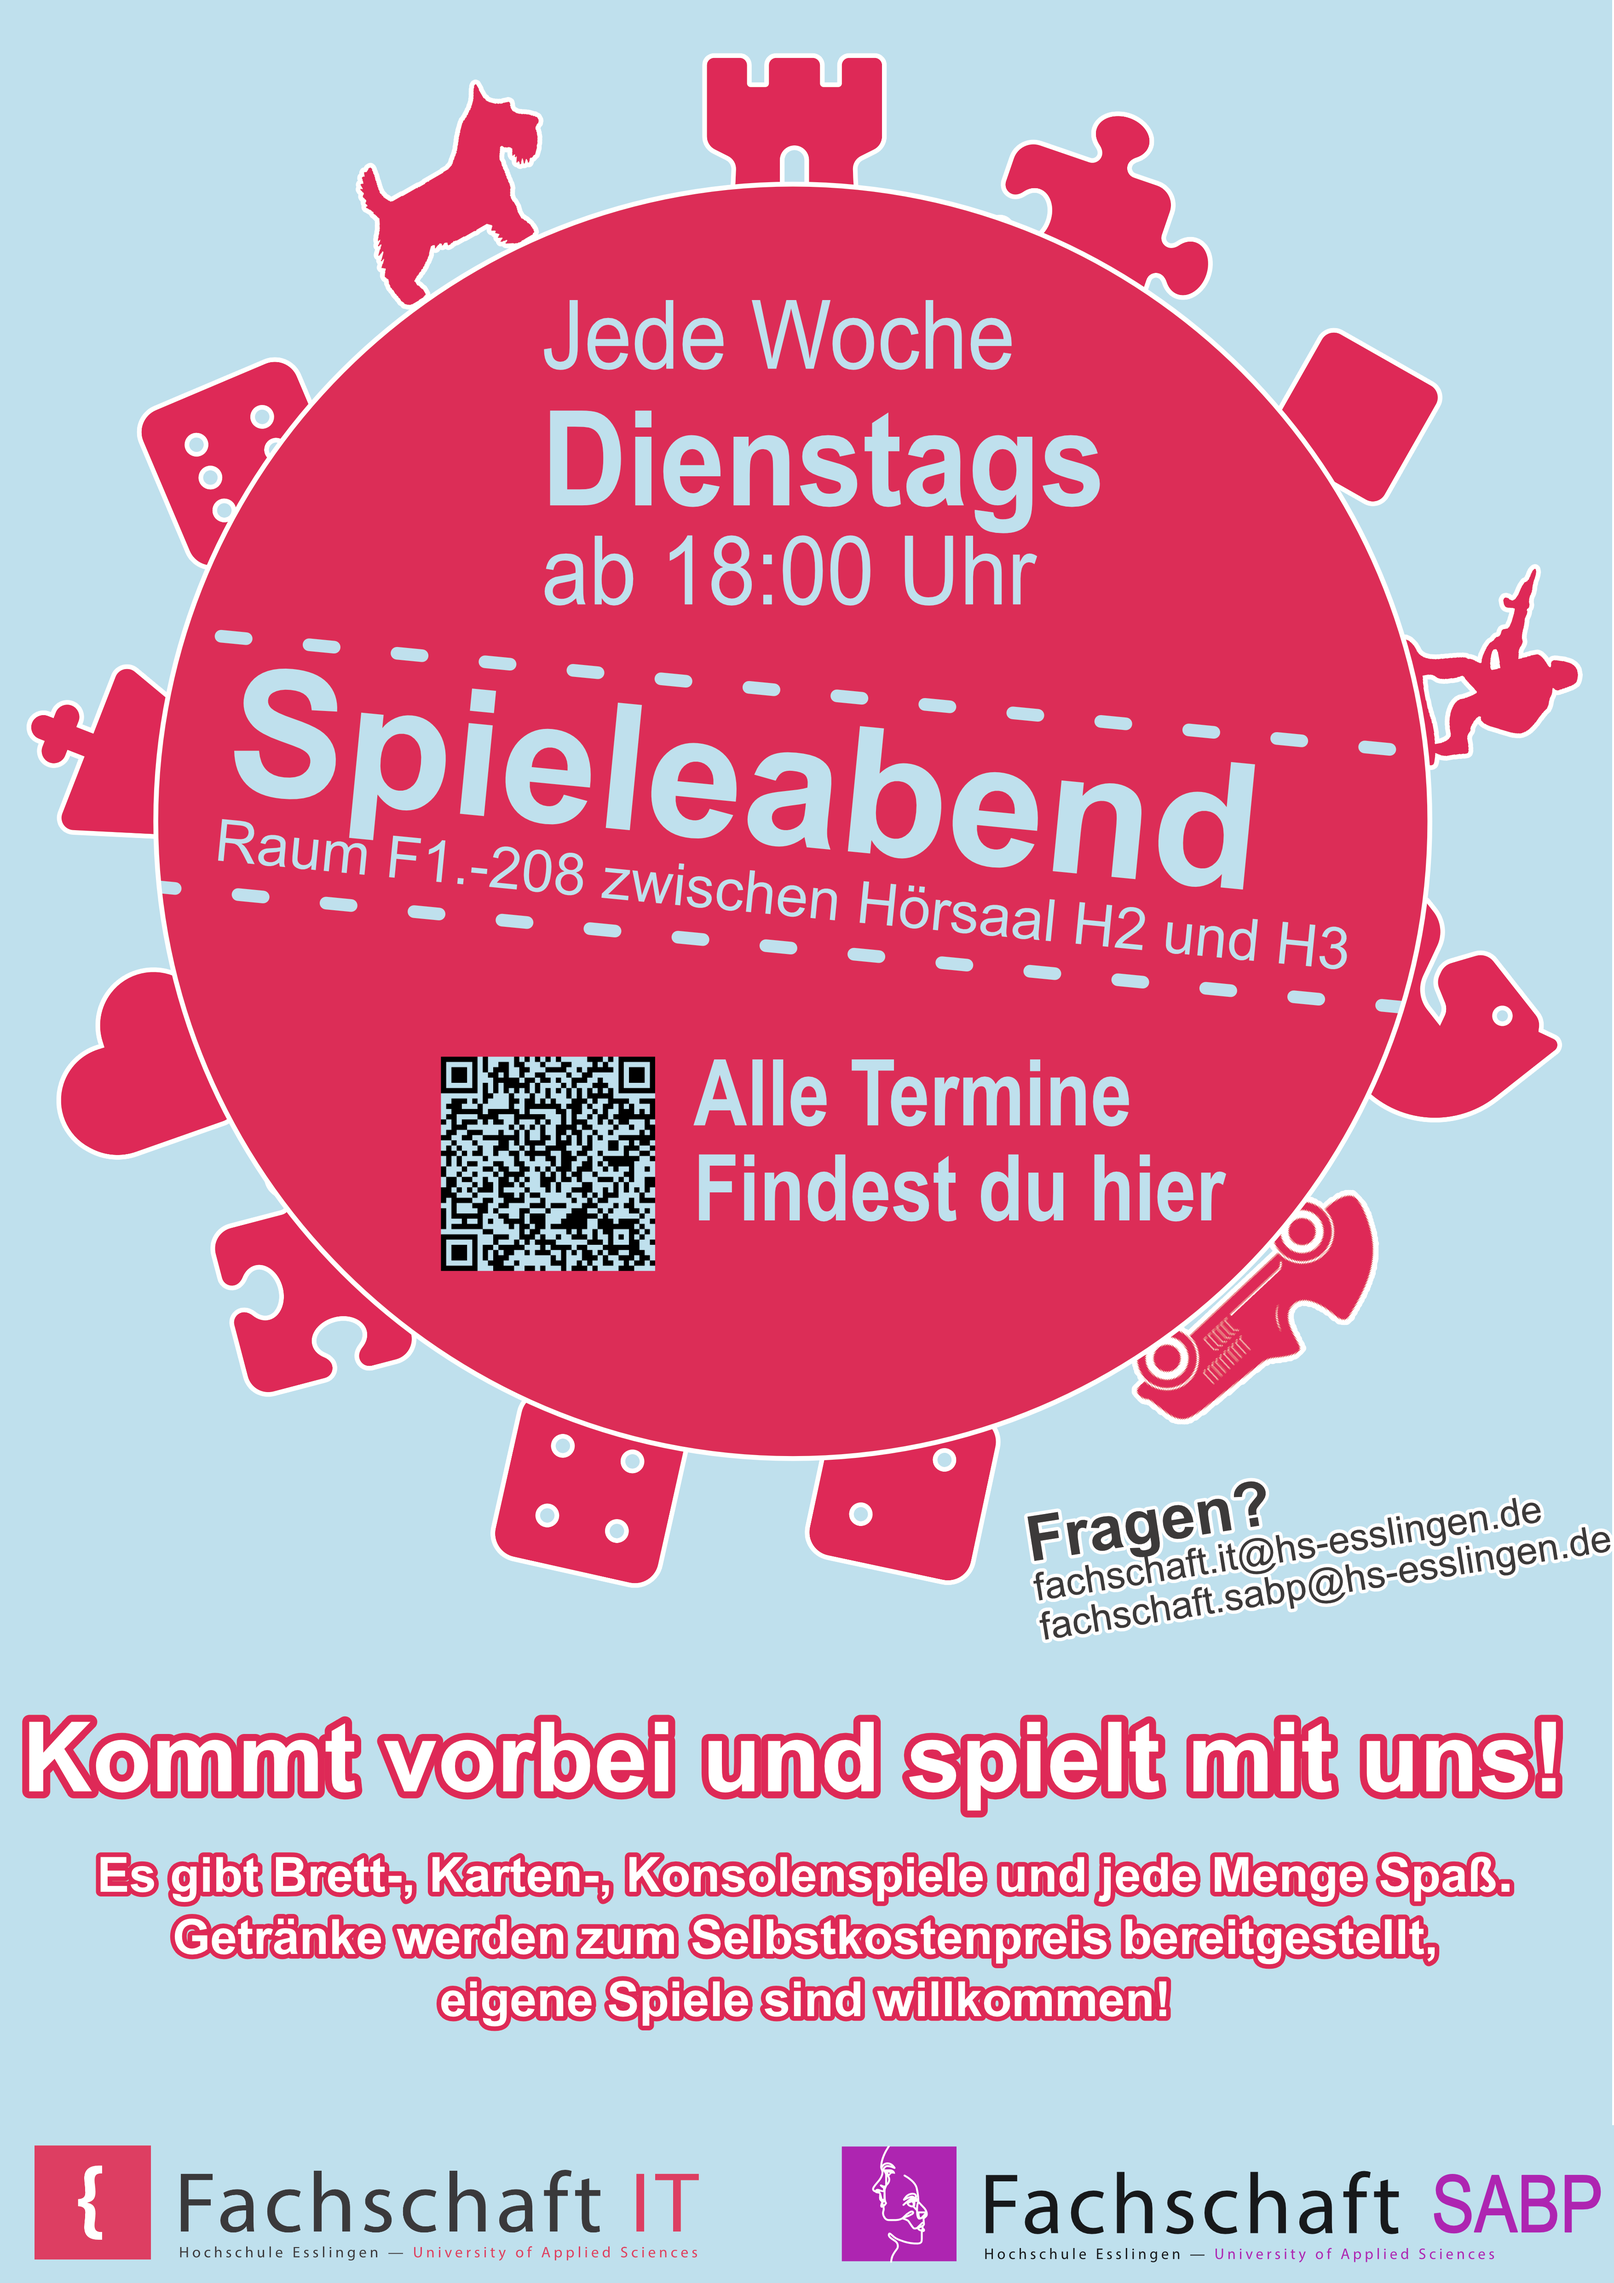
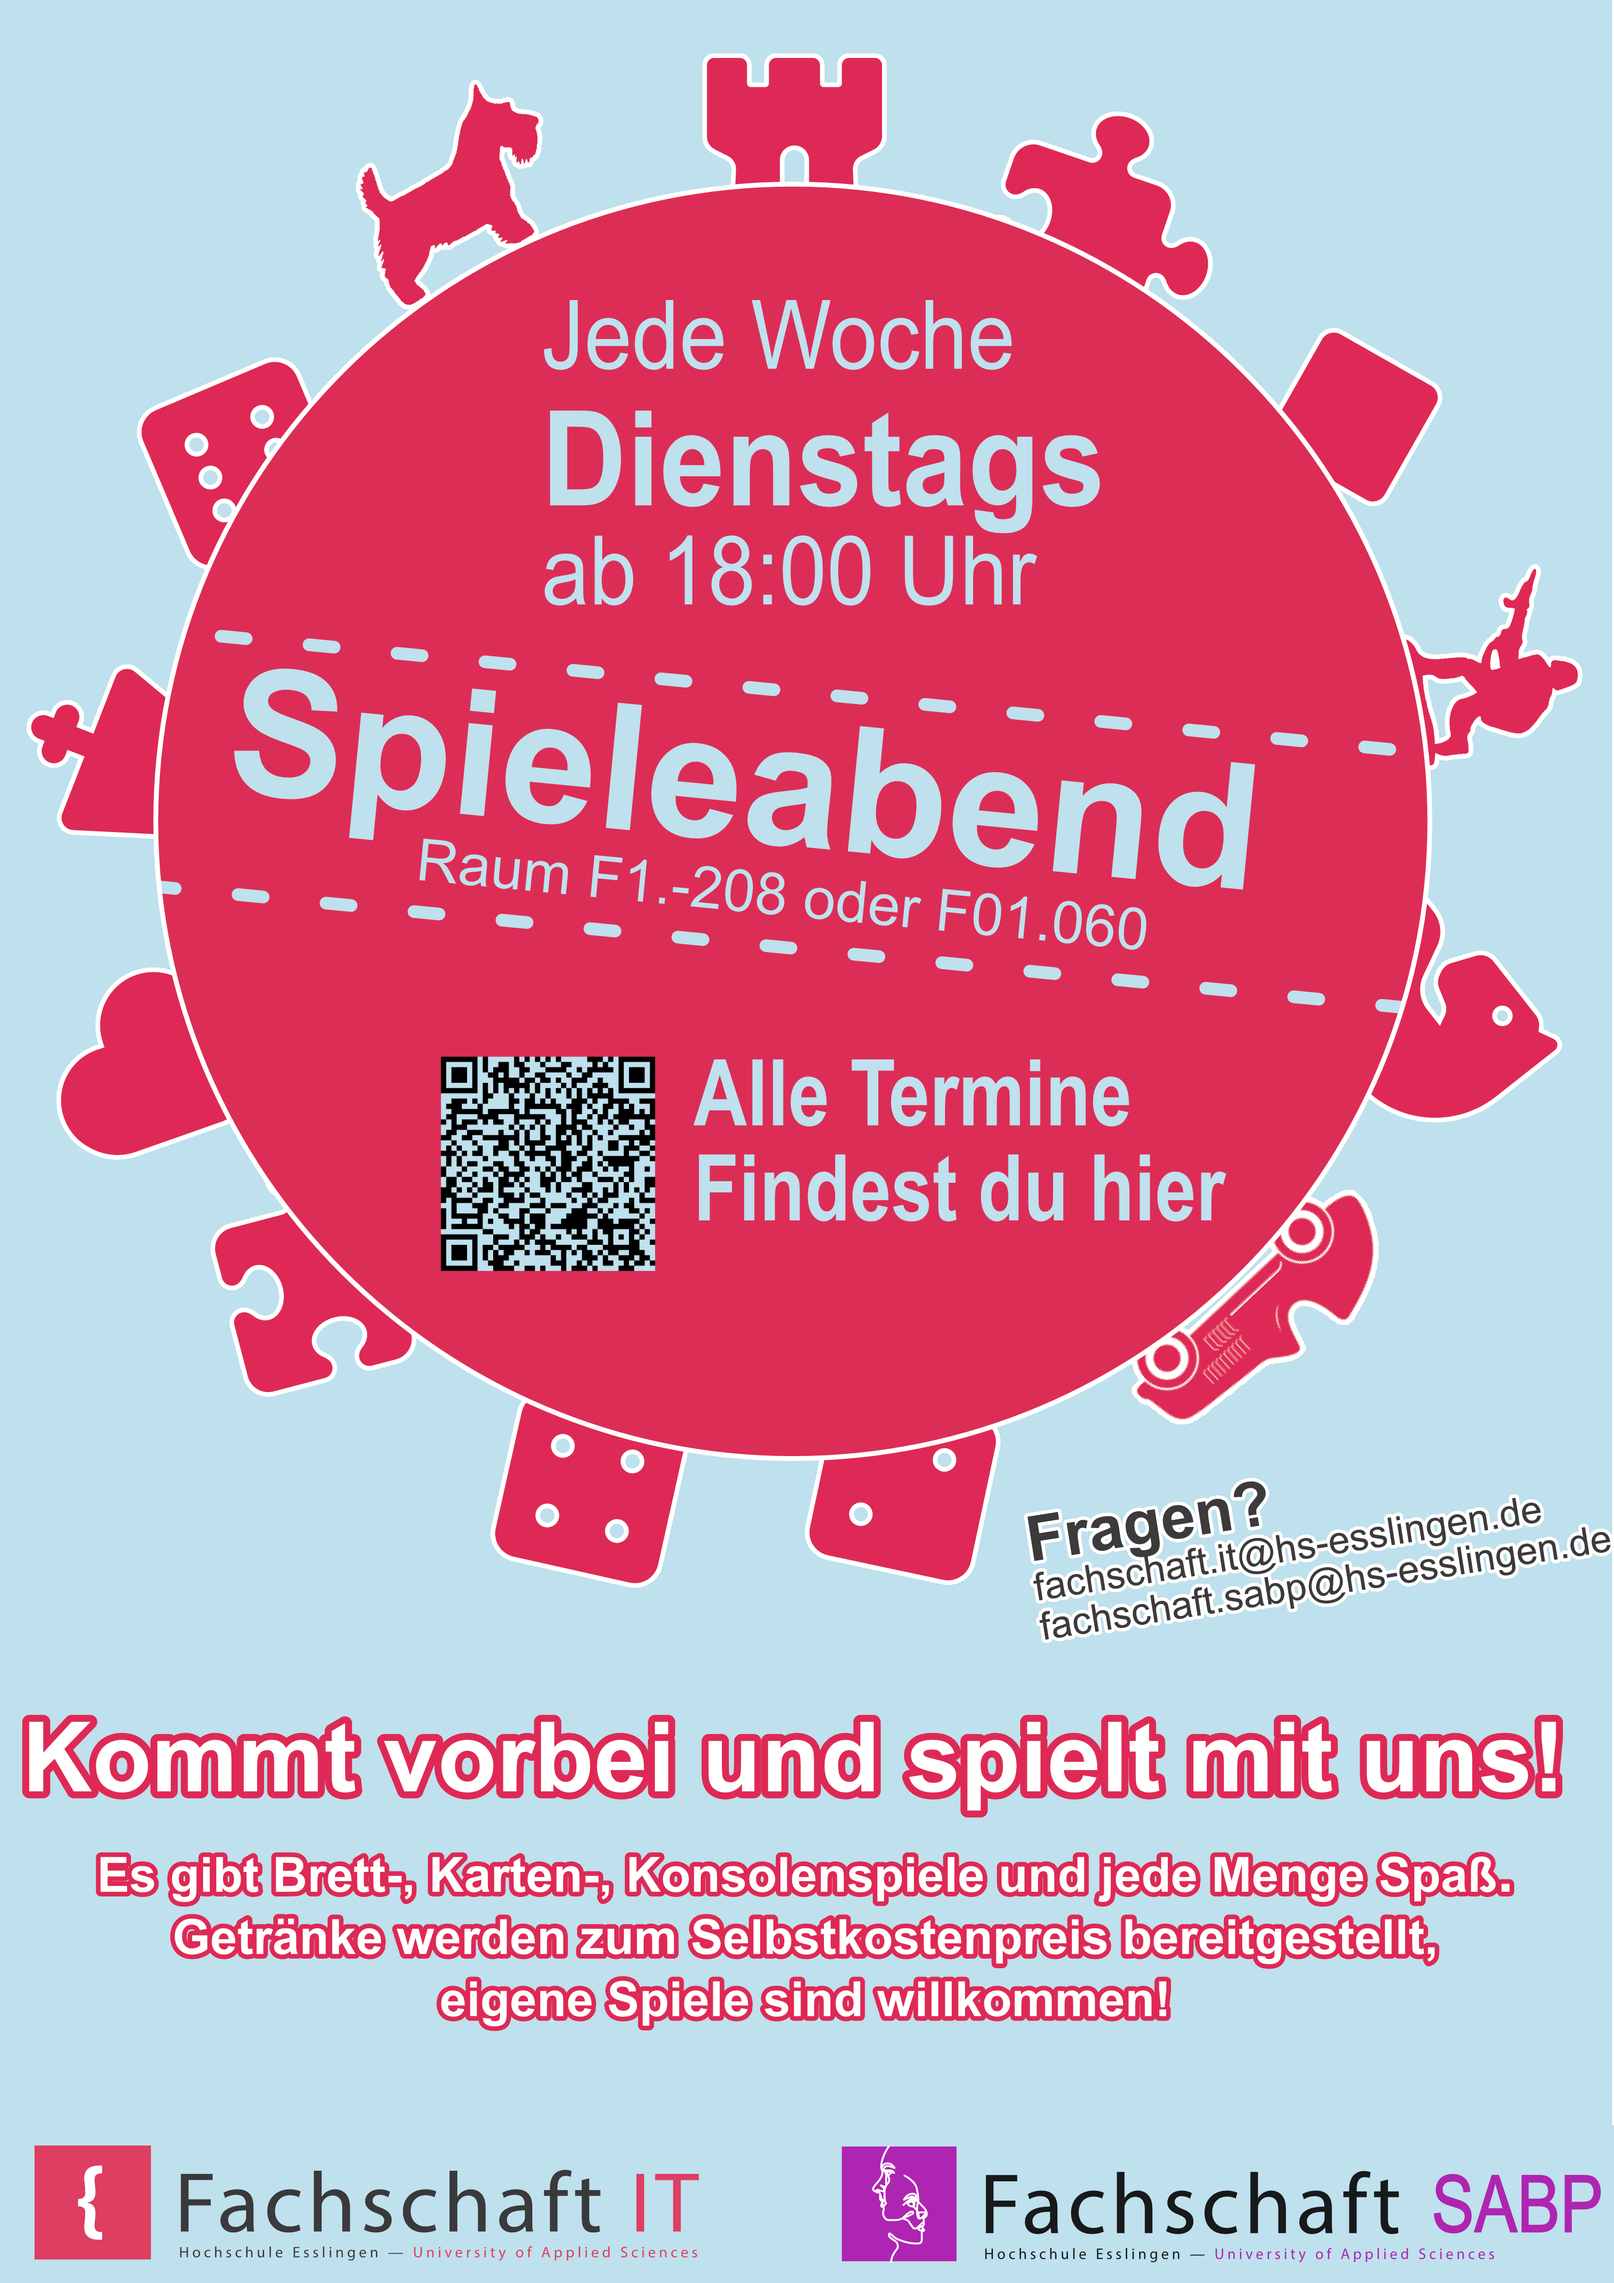
Neues Poster+Neue Termine

Changed region(s): [[0.2486, 0.3437, 0.8389, 0.4374], [0.1243, 0.3437, 0.1864, 0.3749]]

diff --git a/Spieleabend/index.html b/Spieleabend/index.html
@@ -49,10 +49,11 @@
             <!-- BESCHREIBUNG DES EVENTS ANPASSEN -->
 
             <p><strong>Die Fachschaften IT und SAPB laden zu den Spieleabenden f&uuml;rs SS24 ein!<br/></strong></p>
-            <p><strong>Wo:</strong> Im Fachschaftsraum F1.-208, zwischen H&ouml;rsaal H2 und H3
+            <p><strong>Wo:</strong> Im Fachschaftsraum F1.-208, oder auf Anfrage Barrierefrei in F01.060
             <br/><strong>W𝗲𝗿:</strong> alle Studis der Hochschule Esslingen - insbesondere Fakult&auml;t IT &amp; SABP
             <p><strong>Wann:</strong> Jede Woche Dienstags ab 18:00</p>
 
+            <!--
             <p><span style="text-decoration: line-through;">11.03.2025 Der erste Spieleabend des Semesters. Wir sitzen mit Spa&szlig; und Spiel zusammen. Gerade praktisch f&uuml;r die Erstsemester, um euere neuen Kommilitonen kennenzulernen.</span></p>
             <p><span style="text-decoration: line-through;">18.03.2025 Brettspiele und Spa&szlig;: Einfach zusammensitzen und Spa&szlig; miteinander haben.</p></span>
             <p><span style="text-decoration: line-through;">25.03.2025 Brettspiele und Spa&szlig;: Einfach zusammensitzen und Spa&szlig; miteinander haben.</p></span>
@@ -70,7 +71,21 @@
             <p>10.06.2025 Heute ist <strong>kein Spieleabend</strong>. Es sind Pfingstferien</p>
             <p>17.06.2025 Brettspiele + <strong>Event Pokernacht:</strong> Heute sind klassische Kartenspiele, wie Poker, Blackjack oder &auml;hnliches angedacht. Bleibt das Gl&uuml;ck auf deiner Seite?</p>
             <p>24.06.2025 Brettspiele und Spa&szlig;</p> Noch ein letztes mal zusammenspielen. bevor die Pr&uuml;fungsphase beginnt.
-
+            -->
+            <p>01.10.2025 Der erste Spieleabend des Semesters. Wir sitzen mit Spa&szlig; und Spiel zusammen. Gerade praktisch f&uuml;r die Erstsemester, um euere neuen Kommilitonen kennenzulernen.</p> 
+            <p>08.10.2025 Einfach zusammensitzen und Spa&szlig; miteinander haben.</p>
+            <p>15.10.2025 Brettspiele + <strong>Event Gruppenspiele</strong>: Heute wollen wir Spiele, wie Werwolf oder Blood on the Clocktower spielen. Also alles f&uuml;r gr&ouml;&szlig;ere Gruppen.</p>
+            <p>22.10.2025 Einfach zusammensitzen und Spa&szlig; miteinander haben.</p>
+            <p>29.10.2025 Einfach zusammensitzen und Spa&szlig; miteinander haben.</p>
+            <p>05.11.2025 Einfach zusammensitzen und Spa&szlig; miteinander haben.</p>
+            <p>12.11.2025 Einfach zusammensitzen und Spa&szlig; miteinander haben.</p>
+            <p>19.11.2025 Einfach zusammensitzen und Spa&szlig; miteinander haben.</p>
+            <p>26.11.2025 Einfach zusammensitzen und Spa&szlig; miteinander haben.</p>
+            <p>03.12.2025 Brettspiele&nbsp; + <strong>Event Gamesturnier:</strong> Als Spiele sind bis jetzt Mario Kart und Smash Bros angedacht. Zeig, was du drauf hast!</p>
+            <p>10.12.2025 Einfach zusammensitzen und Spa&szlig; miteinander haben.</p>
+            <p>17.12.2025 Einfach zusammensitzen und Spa&szlig; miteinander haben.</p>
+            <p>14.01.2025 Einfach zusammensitzen und Spa&szlig; miteinander haben.</p>
+            <p>21.01.2025 Noch ein letztes mal zusammenspielen. bevor die Pr&uuml;fungsphase beginnt.</p>
 
             <br/><br/>Link zur Spieleabend Whatsapp-Gruppe: https://chat.whatsapp.com/EGEjFd0rw0GEWK2ji41Pik
 
